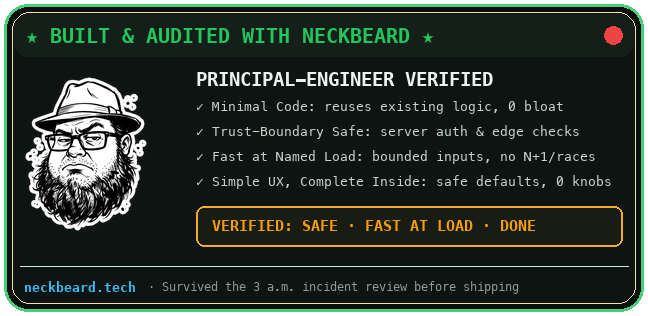
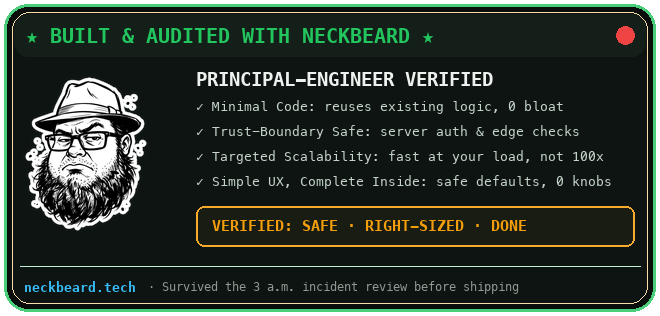
Refine badge and Seal of Survival with Targeted Scalability and Right-Sized Scale

diff --git a/README.md b/README.md
@@ -12,13 +12,13 @@
 </p>
 
 <p align="center">
-  <a href="https://neckbeard.tech"><img src="assets/badge.svg" height="24" alt="NeckBeard: Minimal Code · Boundary Safe · Scales at Load"></a>
+  <a href="https://neckbeard.tech"><img src="assets/badge.svg" height="24" alt="NeckBeard: Minimal Code · Boundary Safe · Right-Sized Scale"></a>
 </p>
 
 <p align="center">
   <img src="https://img.shields.io/badge/code-Minimal%20%26%20Reused%20(0%20Bloat)-111714?style=flat-square&labelColor=0b0e0c&color=22c55e" alt="Minimal & Reused Code">
   <img src="https://img.shields.io/badge/security-Trust--Boundary%20Safe%20%26%20Live%20Secret%20Guard-111714?style=flat-square&labelColor=0b0e0c&color=38bdf8" alt="Trust-Boundary Safe & Live Secret Guard">
-  <img src="https://img.shields.io/badge/scale-Fast%20at%20a%20Named%20Load-111714?style=flat-square&labelColor=0b0e0c&color=f59e0b" alt="Fast at a Named Load">
+  <img src="https://img.shields.io/badge/scale-Targeted%20Scalability%20(Fast%20at%20Your%20Load%2C%20Not%20100x)-111714?style=flat-square&labelColor=0b0e0c&color=f59e0b" alt="Targeted Scalability">
   <img src="https://img.shields.io/badge/UX-Complexity%20Hidden%20Inside%20(0%20Knobs)-111714?style=flat-square&labelColor=0b0e0c&color=22c55e" alt="Complexity Hidden Inside">
   <a href="https://www.itsavibe.ai"><img src="https://img.shields.io/badge/provenance-VIBES%20Audit%20%26%20Local%20Telemetry-111714?style=flat-square&labelColor=0b0e0c&color=38bdf8" alt="VIBES Audit & Local Telemetry"></a>
   <a href="LICENSE"><img src="https://img.shields.io/badge/version-v0.2.0%20%C2%B7%20MIT-111714?style=flat-square&labelColor=0b0e0c&color=22c55e" alt="v0.2.0 MIT"></a>
@@ -250,7 +250,7 @@ NeckBeard is the **preventive engineering layer**; the **[VIBES Protocol](https:
 ## The NeckBeard Badge & Seal of Survival ([neckbeard.tech](https://neckbeard.tech))
 
 <p align="center">
-  <a href="https://neckbeard.tech"><img src="assets/badge.svg" width="436" height="28" alt="NeckBeard Audited: Minimal Code · Boundary Safe · Scales at Load"></a>
+  <a href="https://neckbeard.tech"><img src="assets/badge.svg" width="456" height="28" alt="NeckBeard Audited: Minimal Code · Boundary Safe · Right-Sized Scale"></a>
 </p>
 
 <p align="center">
@@ -265,7 +265,7 @@ NeckBeard is the **preventive engineering layer**; the **[VIBES Protocol](https:
 **Compact README Pill Badge (Markdown):**
 
 ```markdown
-[![NeckBeard Audited: Minimal Code · Boundary Safe · Scales at Load](https://neckbeard.tech/assets/badge.svg)](https://neckbeard.tech)
+[![NeckBeard Audited: Minimal Code · Boundary Safe · Right-Sized Scale](https://neckbeard.tech/assets/badge.svg)](https://neckbeard.tech)
 ```
 
 **Full "Built & Audited with NeckBeard" Value Seal (Markdown):**
